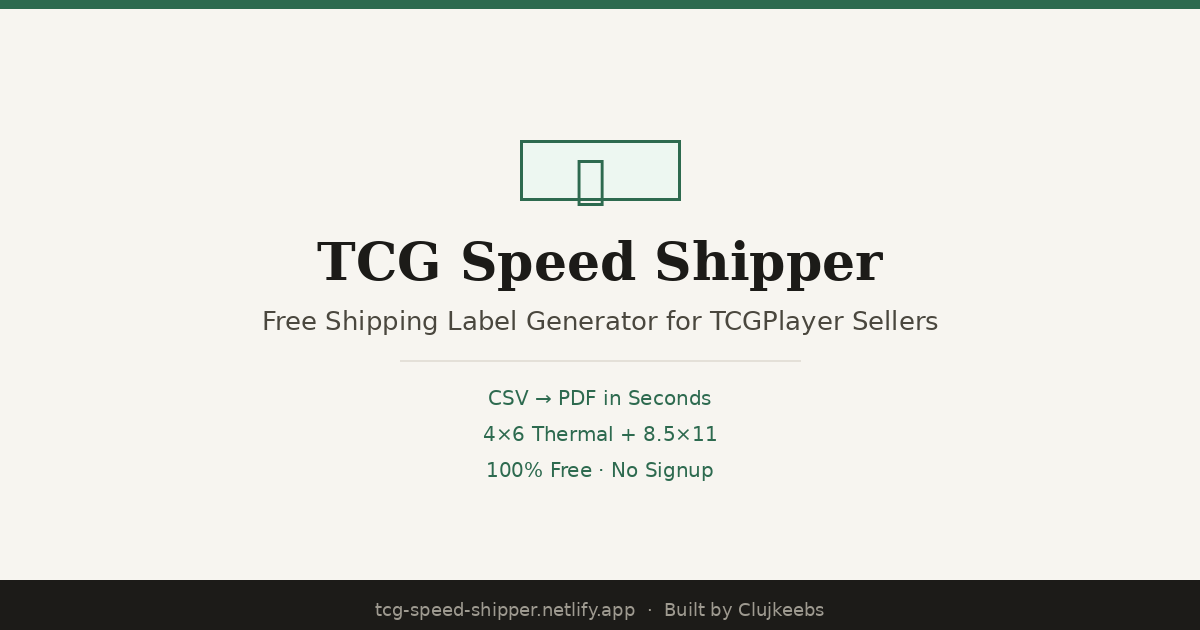
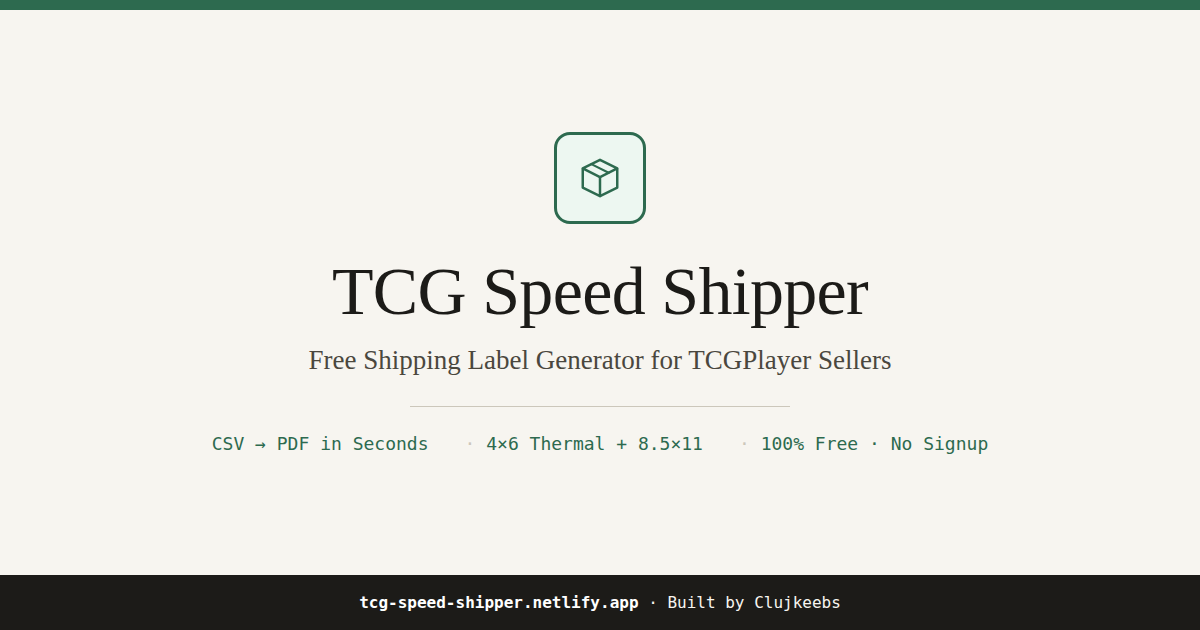
Fix broken social preview image, persist tracking numbers, bulk shipped toggle
og-image.png — the image every X/Slack/Discord/Facebook link preview
uses — had a broken glyph rendered right in the hero spot (an emoji
that didn't render when the image was originally generated, leaving
a visible tofu box). Rebuilt it from scratch at the correct 1200x630
OG/Twitter-card size, matching the app's actual design system (DM
Serif Display, forest green, the same package motif used elsewhere)
with a clean inline SVG icon instead of a font-dependent emoji, so it
can't silently break the same way again. Verified render via a
Playwright screenshot before committing.

Also optimized the two features shipped earlier today:
- Pasted tracking numbers now persist per-batch in localStorage, same
  as the shipped checklist — previously a reload lost every tracking
  number you'd pasted before you finished copying them into
  TCGplayer. Verified with a reload-and-restore Playwright test.
- Added a "Mark all shipped" / "Unmark all" toggle next to the
  existing per-row checkboxes and "Clear shipped marks," for sellers
  working through large batches where checking each row individually
  is real friction.

Spot-checked both at a 390px mobile viewport — no horizontal
overflow, controls wrap cleanly.

Claude-Session: https://claude.ai/code/session_01PDyUQ1PWhhFsjFkydixDgR

diff --git a/public/index.html b/public/index.html
@@ -861,6 +861,7 @@ input[type=text]::placeholder, input[type=password]::placeholder, input[type=ema
       </div>
       <div class="shipped-progress" id="shipped-progress" style="display:none;">
         <span id="shipped-progress-text"></span>
+        <button type="button" id="shipped-mark-all-btn">Mark all shipped</button>
         <button type="button" id="shipped-clear-btn">Clear shipped marks</button>
       </div>
       <div id="preview-list"></div>
@@ -2192,10 +2193,12 @@ function renderPreviews() {
 
   var progress = document.getElementById('shipped-progress');
   var progressText = document.getElementById('shipped-progress-text');
+  var markAllBtn = document.getElementById('shipped-mark-all-btn');
   if (progress && progressText) {
     if (total > 0) {
       progress.style.display = 'flex';
       progressText.textContent = shippedCount + ' of ' + total + ' marked shipped';
+      if (markAllBtn) markAllBtn.textContent = shippedCount >= total ? 'Unmark all' : 'Mark all shipped';
     } else {
       progress.style.display = 'none';
     }
@@ -2381,6 +2384,7 @@ function handleFile(file) {
     document.getElementById('upload-text').textContent='\u2713 '+file.name;
     document.getElementById('loaded-msg').innerHTML='<div class="loaded-state"><span>\u2713 '+orders.length+' order'+(orders.length!==1?'s':'')+' loaded</span></div>';
     renderPreviews();
+    restoreTrackingForBatch();
   };
   reader.readAsText(file);
 }
@@ -2405,6 +2409,13 @@ document.getElementById('preview-list').addEventListener('change', function (e) 
 
 document.getElementById('shipped-clear-btn').addEventListener('click', function () {
   clearShippedForBatch();
+  renderPreviews();
+});
+
+document.getElementById('shipped-mark-all-btn').addEventListener('click', function () {
+  var shipped = getShippedSet();
+  var allShipped = orders.every(function (o, i) { return !!shipped[orderKey(o, i)]; });
+  orders.forEach(function (o, i) { setShipped(orderKey(o, i), !allShipped); });
   renderPreviews();
 });
 
@@ -2440,6 +2451,7 @@ document.getElementById('paste-generate-btn').addEventListener('click', function
 
   orders = result.good;
   resetTracking();
+  restoreTrackingForBatch();
   document.getElementById('csv-input').value = '';
   document.getElementById('upload-text').textContent = 'Drop your CSV here, or tap to browse';
   document.getElementById('error-msg').innerHTML = '';
@@ -2489,6 +2501,43 @@ function resetTracking() {
   if (area) area.style.display = 'none';
 }
 
+/* Pasted tracking numbers persist per-batch too, same as shipped marks —
+   losing 50 just-pasted tracking numbers to an accidental reload before
+   they're all copied into TCGplayer would be a genuinely bad day. */
+var TRACKING_STORAGE_KEY = 'tcgss_tracking_v1';
+var TRACKING_MAX_BATCHES = 25;
+
+function loadTrackingStore() {
+  try { return JSON.parse(localStorage.getItem(TRACKING_STORAGE_KEY) || '{}'); } catch (e) { return {}; }
+}
+function saveTrackingStore(store) {
+  try {
+    var keys = Object.keys(store);
+    while (keys.length > TRACKING_MAX_BATCHES) { delete store[keys.shift()]; }
+    localStorage.setItem(TRACKING_STORAGE_KEY, JSON.stringify(store));
+  } catch (e) { /* localStorage unavailable — pasted numbers just won't persist across reloads */ }
+}
+function saveTrackingInputForBatch(text) {
+  var bk = batchKey();
+  if (!bk) return;
+  var store = loadTrackingStore();
+  delete store[bk];
+  if (text) store[bk] = text;
+  saveTrackingStore(store);
+}
+function loadTrackingInputForBatch() {
+  var bk = batchKey();
+  if (!bk) return '';
+  return loadTrackingStore()[bk] || '';
+}
+function restoreTrackingForBatch() {
+  var saved = loadTrackingInputForBatch();
+  if (!saved) return;
+  var input = document.getElementById('tracking-input');
+  if (input) input.value = saved;
+  matchTrackingNumbers();
+}
+
 function matchTrackingNumbers() {
   var input = document.getElementById('tracking-input');
   var lines = (input.value || '').split(/\r?\n/).map(function (l) { return l.trim(); }).filter(Boolean);
@@ -2498,6 +2547,7 @@ function matchTrackingNumbers() {
   var copyAllBtn = document.getElementById('tracking-copy-all-btn');
   if (!lines.length || !orders.length) { refBox.style.display = 'none'; copyAllBtn.style.display = 'none'; return; }
 
+  saveTrackingInputForBatch(input.value);
   trackingNumbers = orders.map(function (o, i) { return lines[i] || ''; });
 
   list.innerHTML = '';
